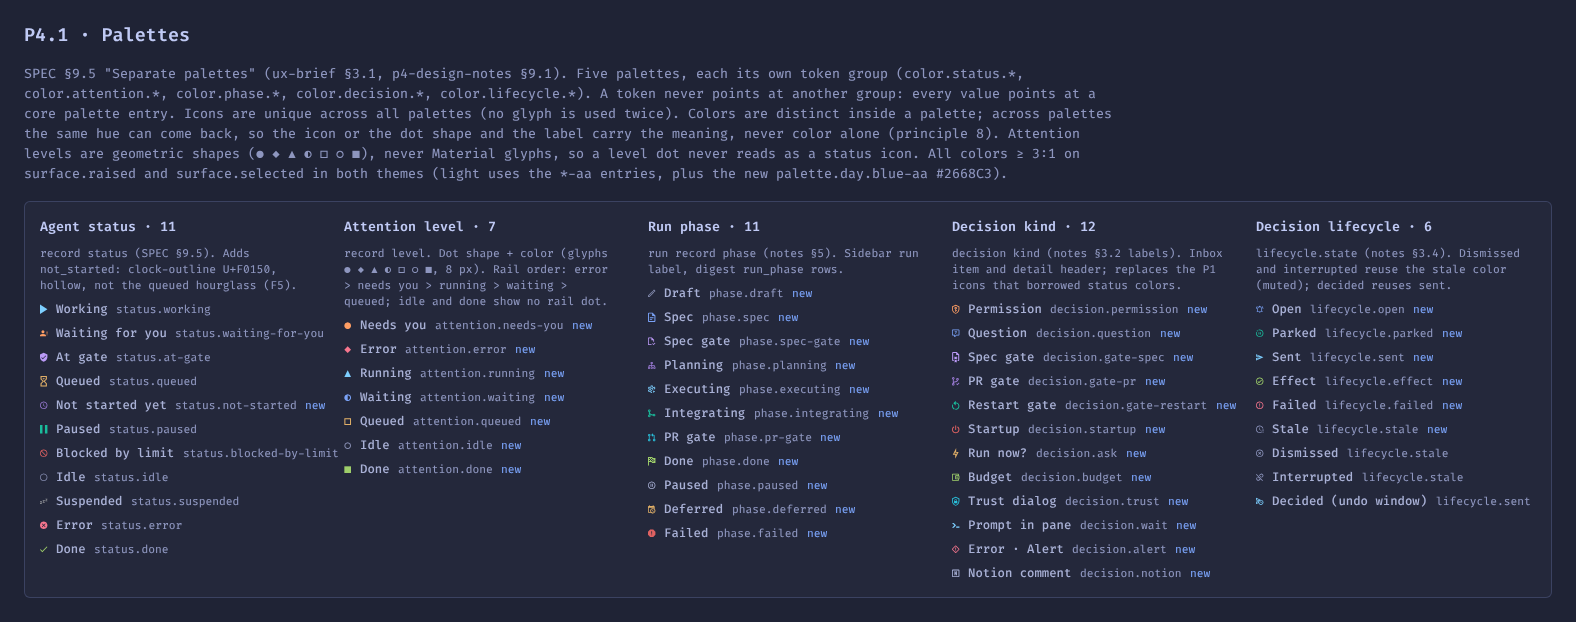
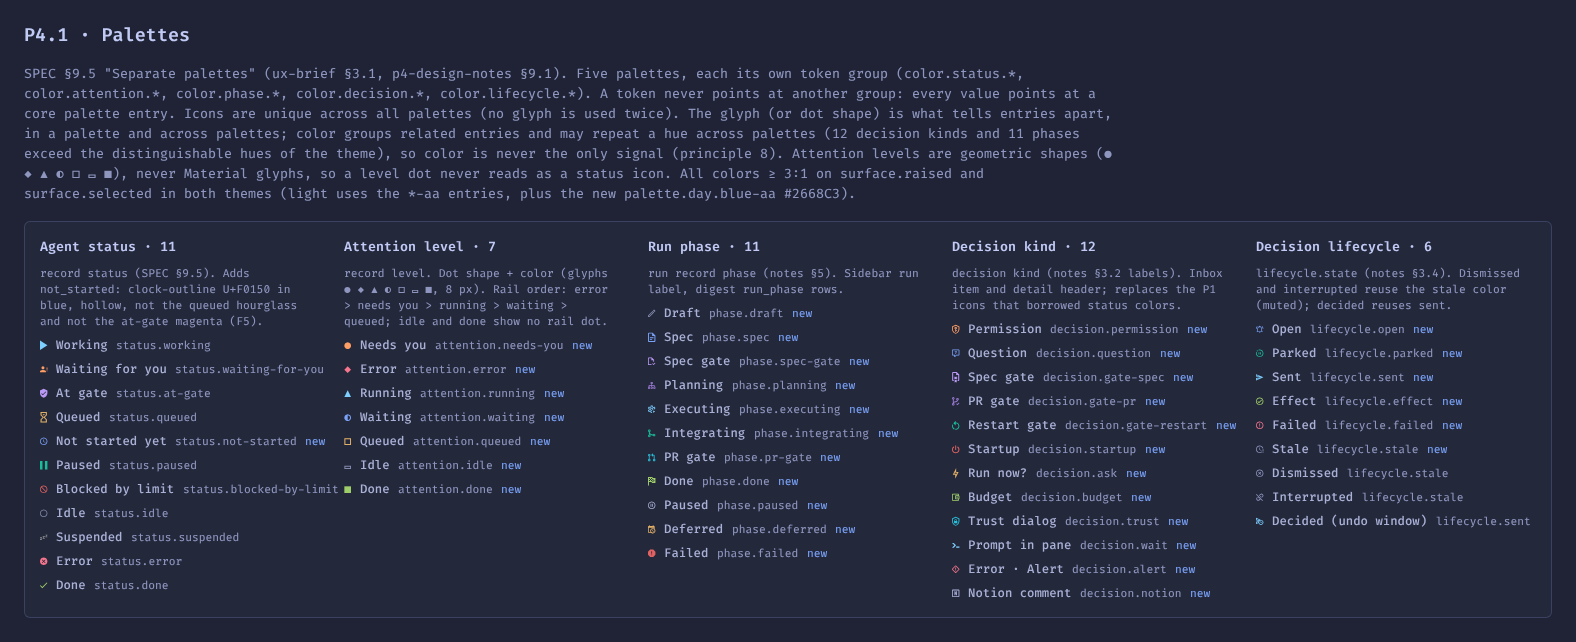
docs(design): P4.1 review fixes: not-started in blue, idle dot ▭, palette rule stated
- status.not-started now blue / day blue-aa (purple sat next to at-gate magenta)
- attention idle dot ▭ instead of ○ (read as the Idle status glyph)
- README: lifecycle and error-kind color mapping, contrast rule covers the
  P4.1 palettes, separate-palettes rule says glyphs carry identity and which
  color pairs are close (lead to confirm the SPEC §9.5 reading)
- palettes, waiting-on chip and count labels exports refreshed

Changed region(s): [[0.0, 0.0916, 0.9638, 0.9775], [0.0622, 0.0305, 0.1244, 0.0611]]

diff --git a/docs/design/README.md b/docs/design/README.md
@@ -72,8 +72,8 @@ All screens use one scenario: Wednesday 21 Oct 11:00, Governor in Red (+9 pp), l
   - `theme/dark`: semantic colors and shadow, from Tokyo Night Storm (the user's kitty theme).
   - `theme/light`: the same names, from Tokyo Night Day.
 - **Themes**: group `mode` with `Dark` = core + theme/dark (default) and `Light` = core + theme/light.
-- **Naming**: semantic colors are `color.surface.*`, `color.text.*`, `color.border.*`, `color.accent.*`, `color.focus`, `color.status.*` (SPEC §9.5), `color.pacing.*` (ADR-007) and `color.role.1…8`; **P4.1** adds the separate palettes `color.attention.*` (7 levels), `color.phase.*` (11 run phases), `color.decision.*` (12 decision kinds), `color.lifecycle.*` (6 states), `color.diff.added` / `removed`, `color.status.not-started`, and the core entry `palette.day.blue-aa`. Code uses semantic tokens only, never `palette.*`.
-- **Separate palettes** (SPEC §9.5): each palette is its own group, and a token never points at another group (only at `palette.*`). Icons are unique across palettes; colors are distinct inside a palette, and a hue may come back in another palette, where the icon or dot shape and the label carry the meaning.
+- **Naming**: semantic colors are `color.surface.*`, `color.text.*`, `color.border.*`, `color.accent.*`, `color.focus`, `color.status.*` (SPEC §9.5), `color.pacing.*` (ADR-007) and `color.role.1…8`; **P4.1** adds the separate palettes `color.attention.*` (7 levels), `color.phase.*` (11 run phases), `color.decision.*` (12 decision kinds; the contract's `error` kind uses `decision.alert` and its glyph), `color.lifecycle.*` (6 colors for the 9 lifecycle states: `decided` uses `lifecycle.sent`, `dismissed` and `interrupted` use `lifecycle.stale`), `color.diff.added` / `removed`, `color.status.not-started`, and the core entry `palette.day.blue-aa`. Code uses semantic tokens only, never `palette.*`.
+- **Separate palettes** (SPEC §9.5): each palette is its own group, and a token never points at another group (only at `palette.*`). Icons (and attention dot shapes) are unique across palettes and are what tells entries apart. Color groups related entries: 12 decision kinds and 11 phases exceed the hues a Tokyo Night theme can tell apart, so some pairs are close (gate-spec / gate-pr, spec-gate / planning, startup / alert, light trust / wait) and a hue may come back in another palette. Color is never the only signal (principle 8). This reads SPEC §9.5's "none borrows another's" as separate tokens and icons, not globally unique hues; lead to confirm.
 - **Fixed across kitty-derived themes**: status, pacing, role and the P4.1 palette colors. Only surface, text and accent may be derived from the user's kitty palette (SPEC §9.1).
 - **Fonts**: one face for everything, **FiraCode Nerd Font Mono** (`font.family.ui` = `font.family.mono` = `font.family.icon`, since 2026-10-26; was IBM Plex Sans / Mono). In agent and shell panes the app replaces `font.family.mono` with the font kitty actually renders (SPEC FR-1002).
 - **Icon font**: `font.family.icon` is the same face (uploaded to the Penpot team; bundled with the app). Typography `text.icon` (status glyphs) and `text.key` (key hints, which need ⌘ ⇧ ⏎). Status icons are Material Design glyphs:
@@ -90,13 +90,13 @@ All screens use one scenario: Wednesday 21 Oct 11:00, Governor in Red (+9 pp), l
   | Suspended | sleep | U+F04B2 |
   | Error | close-circle | U+F0159 |
   | Done | check | U+F012C |
-  | Not started yet (P4.1) | clock-outline | U+F0150 |
+  | Not started yet (P4.1, `blue`, not the at-gate magenta) | clock-outline | U+F0150 |
 
   **P4.1 glyphs** (all Material Design, unique across palettes; the 02 sections list them with their tokens):
 
   | Palette | Entries → glyph |
   |---|---|
-  | Attention level (`color.attention.*`) | shapes, not glyphs: needs-you ●, error ◆, running ▲, waiting ◐, queued □, idle ○, done ■ |
+  | Attention level (`color.attention.*`) | shapes, not glyphs: needs-you ●, error ◆, running ▲, waiting ◐, queued □, idle ▭, done ■ (idle is not ○, which would read as the Idle status glyph) |
   | Run phase (`color.phase.*`) | draft pencil-outline F0CB6 · spec file-document-outline F09EE · spec-gate file-check-outline F0E29 · planning sitemap-outline F199C · executing cog-play-outline F1936 · integrating source-merge F062D · pr-gate source-pull F04C2 · done flag-checkered F023C · paused pause-circle-outline F03E6 · deferred calendar-clock F00F0 · failed alert-octagon F0029 |
   | Decision kind (`color.decision.*`) | permission shield-key-outline F0BC5 · question comment-question-outline F0186 · gate-spec file-certificate-outline F1187 · gate-pr source-branch-check F14CF · gate-restart restart F0709 · startup power F0425 · ask lightning-bolt-outline F140C · budget wallet-outline F0BDD · trust shield-lock-outline F0CCC · wait console-line F07B7 · alert alert-rhombus-outline F11CF · notion alpha-n-box-outline F0C12 |
   | Lifecycle (`color.lifecycle.*`) | open bell-ring-outline F009F · parked motion-pause-outline F1592 · decided send-clock-outline F1164 · sent send-outline F1165 · effect check-circle-outline F05E1 · failed alert-circle-outline F05D6 · stale clock-alert-outline F05CE · dismissed close-circle-outline F015A · interrupted link-variant-off F033A |
@@ -106,4 +106,4 @@ All screens use one scenario: Wednesday 21 Oct 11:00, Governor in Red (+9 pp), l
 
 Pipeline (to build in P1): Penpot token export → this JSON → Style Dictionary → CSS variables, with a CI check that fails when the code and the export drift. Until that exists, refresh `tokens.json` by hand after token changes in Penpot.
 
-**Contrast**: `text.primary` is ≥ 7:1 and `text.secondary` / `text.muted` are ≥ 4.5:1 on `surface.pane`, `surface.chrome` and `surface.raised` in both themes. Status and pacing colors (icons, glyphs, pill outlines) are ≥ 3:1 on `surface.raised` and `surface.selected` in both themes (WCAG 1.4.11); the label always carries the meaning too. The `*-aa` palette entries adjust Tokyo Night values that fell short: storm `muted-aa`, `dark5-aa`, `red1-aa`, `suspended-aa`; day `fg-aa`, `fg-dark-aa`, `muted-aa` and the status/pacing `*-aa` entries (cyan, orange, magenta, yellow, red, red1, green, blue1, teal, dark5, suspended). `text.disabled` is exempt.
+**Contrast**: `text.primary` is ≥ 7:1 and `text.secondary` / `text.muted` are ≥ 4.5:1 on `surface.pane`, `surface.chrome` and `surface.raised` in both themes. Status, pacing and the P4.1 palette colors (`attention`, `phase`, `decision`, `lifecycle`, `diff`; icons, glyphs, dots, pill outlines) are ≥ 3:1 on `surface.raised` and `surface.selected` in both themes (WCAG 1.4.11); the label always carries the meaning too. The `*-aa` palette entries adjust Tokyo Night values that fell short: storm `muted-aa`, `dark5-aa`, `red1-aa`, `suspended-aa`; day `fg-aa`, `fg-dark-aa`, `muted-aa` and the status/pacing `*-aa` entries (cyan, orange, magenta, yellow, red, red1, green, blue, blue1, teal, dark5, suspended). `text.disabled` is exempt.
